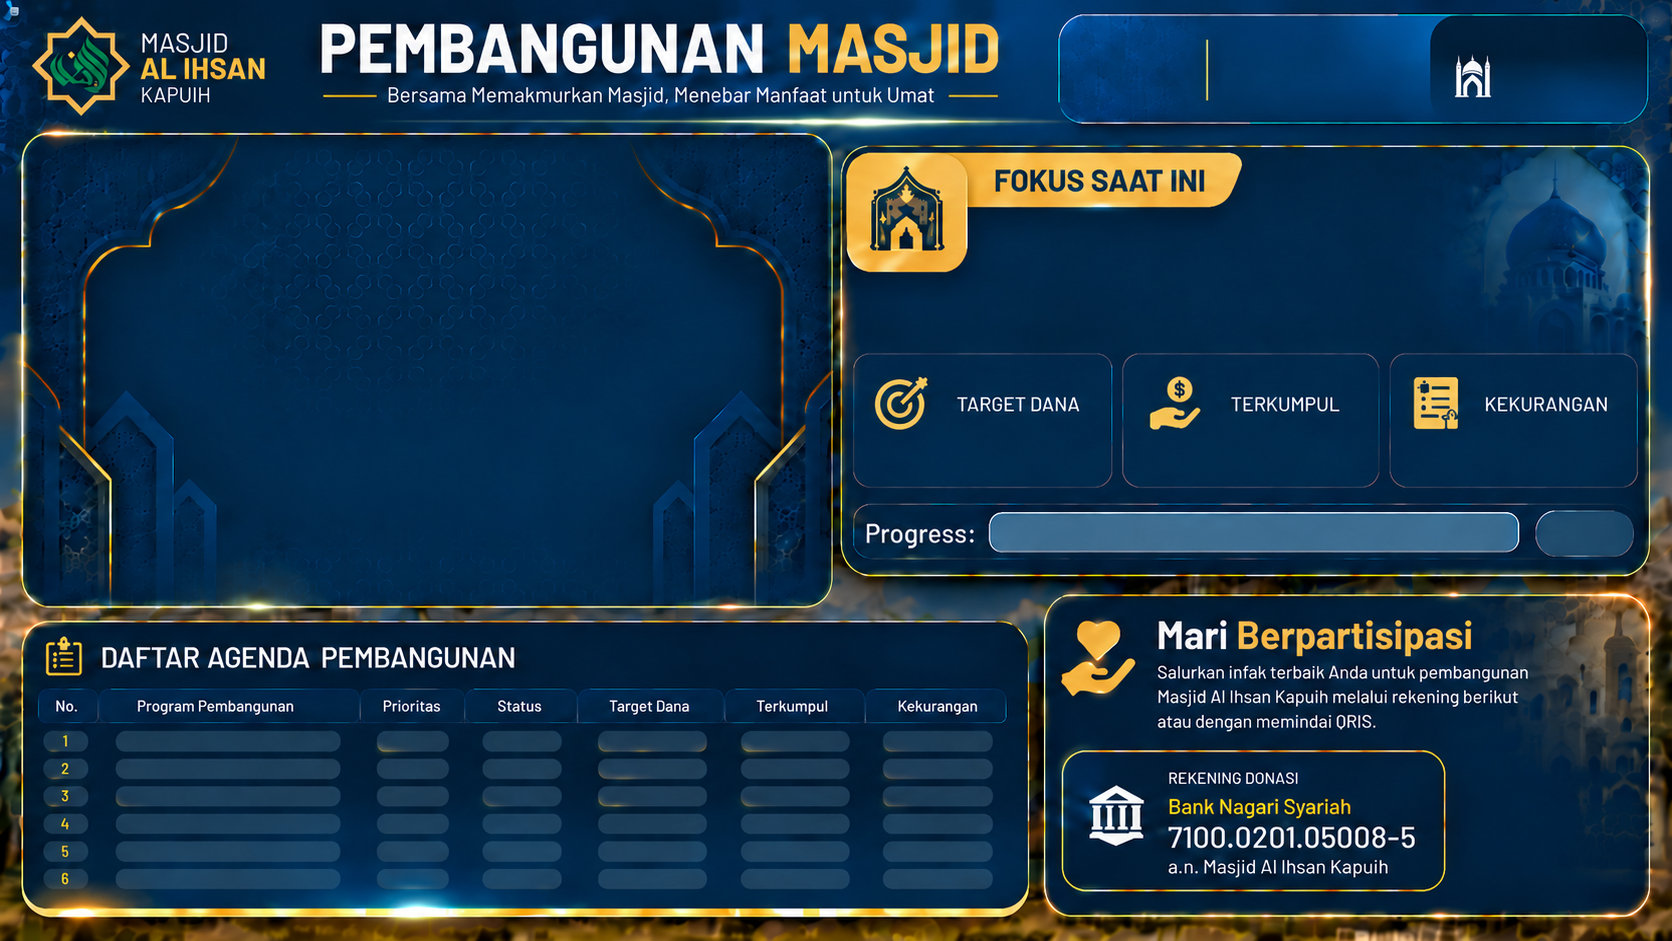
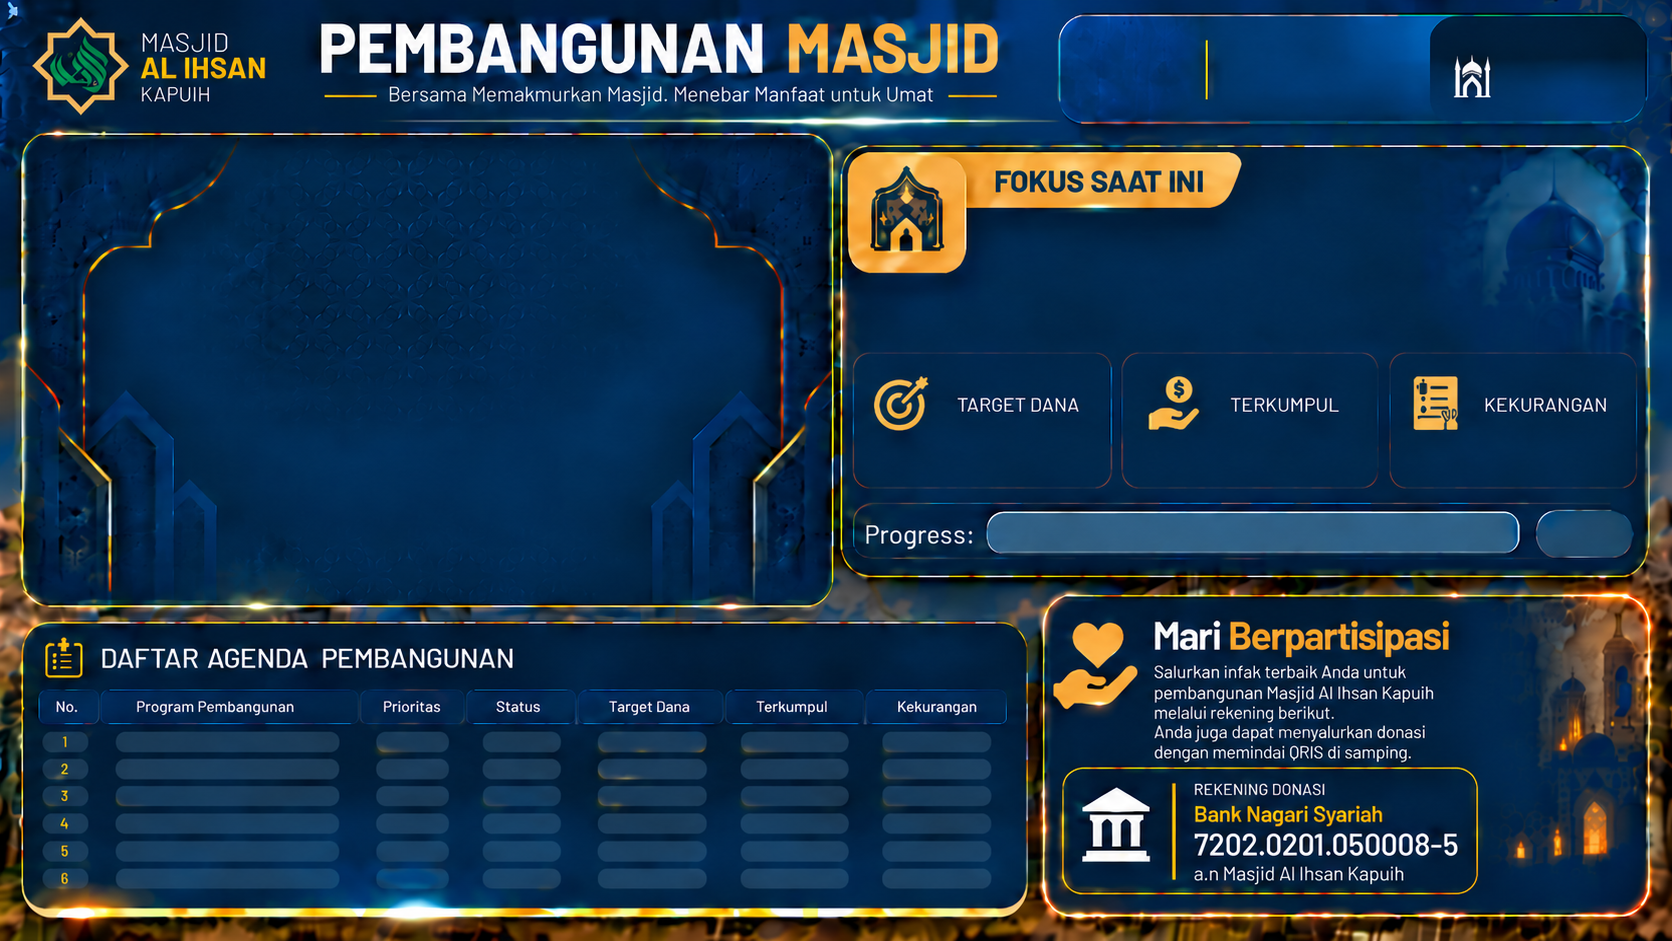
Set final construction participation backlayer

diff --git a/index.html b/index.html
@@ -180,7 +180,7 @@
       <section id="constructionScene" class="construction-scene construction-stage2a" aria-label="Halaman Pembangunan Masjid" aria-hidden="true">
         <img
           class="construction-underlay"
-          src="./assets/construction-background-approved-master.png?v=approved-master-20261017-numberfix-v2"
+          src="./assets/construction-background-approved-master.png?v=approved-master-20261020-participation-final"
           alt=""
           aria-hidden="true">
         <div class="construction-upperlayer" aria-label="Informasi waktu dan sholat">
